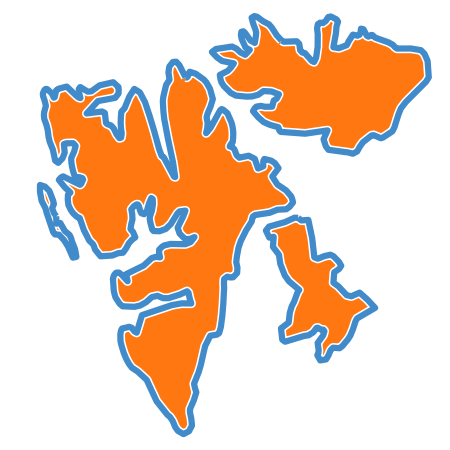
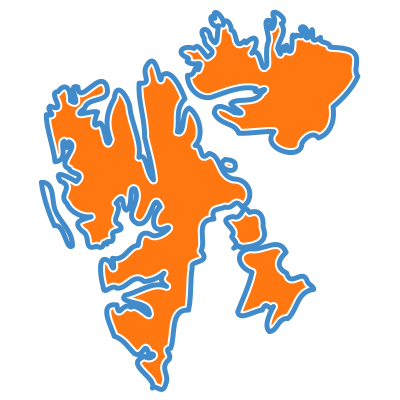
kompletigas la OGP-siluetojn de landoj (ref 4f07343)

Changed region(s): [[0.06, 0.03, 0.96, 0.99]]

diff --git a/pages/templates/pages/about.html b/pages/templates/pages/about.html
@@ -156,6 +156,12 @@
             kaj el {% include './_xa.html' with URL="http://download.geonames.org/export/dump/countryInfo.txt" T="GeoNames" %}
               (projekto de <nobr><i>Unxos GmbH</i>&thinsp;)</nobr>
               laŭ licenco {% include './_xa.html' with URL="https://creativecommons.org/licenses/by/4.0/" T="<nobr>CC BY 4.0</nobr>" %}.
+            Siluetoj de landoj estas produktitaj helpe de vektoraj kartografiaj datumoj el
+              {% include './_xa.html' with URL="https://www.naturalearthdata.com/downloads" T="Natural Earth" %},
+              libere uzeblaj, kaj kompletigitaj per derivaĵoj de vektoraj konturoj el
+              {% include './_xa.html' with URL="https://www.amcharts.com/svg-maps/" T="amCharts" %}
+              laŭ licenco {% include './_xa.html' with URL="https://creativecommons.org/licenses/by-nc/4.0/" T="<nobr>CC BY-NC 4.0</nobr>" %}
+              kaj el {% include './_xa.html' with URL="https://freevectormaps.com" T="Free Vector Maps" %}.
         </center>
     </div>
 {% endblock page %}

diff --git a/hosting/templates/hosting/place_detail.html b/hosting/templates/hosting/place_detail.html
@@ -32,6 +32,10 @@
 {% block ogp_image %}
     {% domain %}{% get_static_prefix %}img/countries/{{ place.country.code.upper }}_outline.png
 {% endblock %}
+{% block extra_ogp_properties %}
+        {# Fallback image for social media sharing, when an outline for a certain country code is not available. #}
+        <meta property="og:image"                           content="{% domain %}{% get_static_prefix %}img/social_media_thumbnail_main.png">
+{% endblock %}
 
 {% block extra_css %}
         <link rel="stylesheet" href="{% static 'datepicker/css/datepicker3.min.css' %}">
